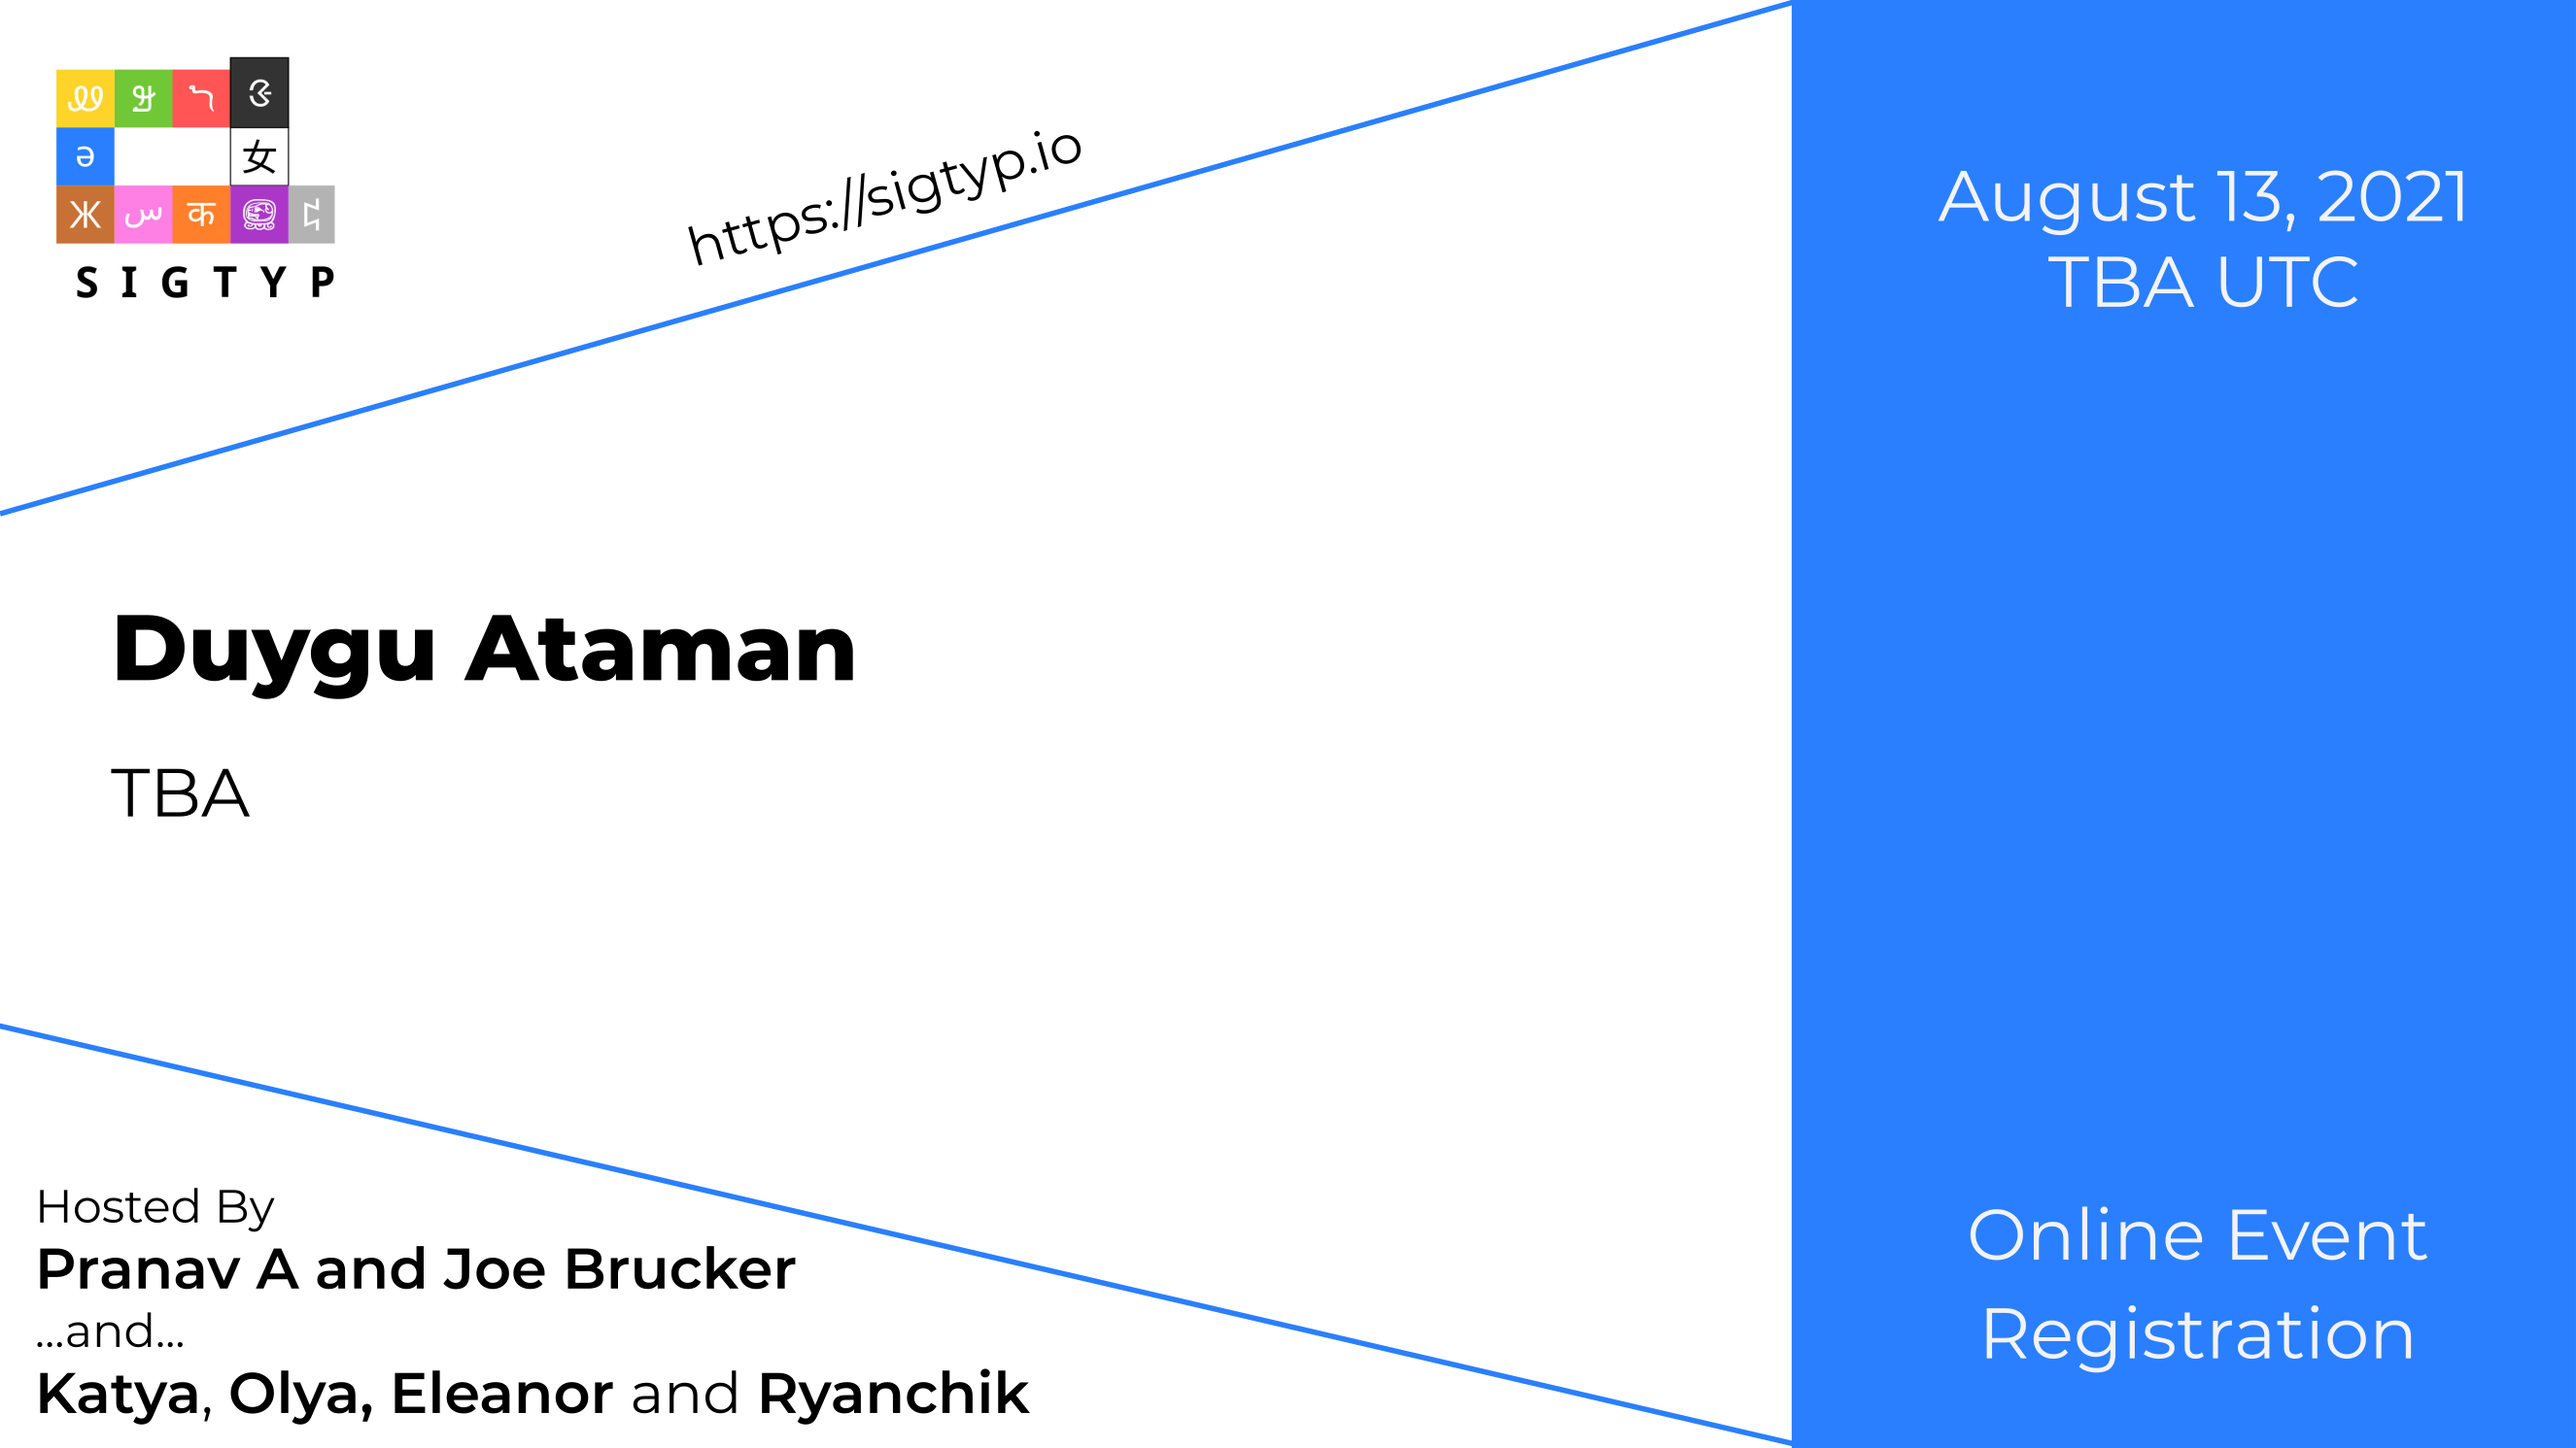
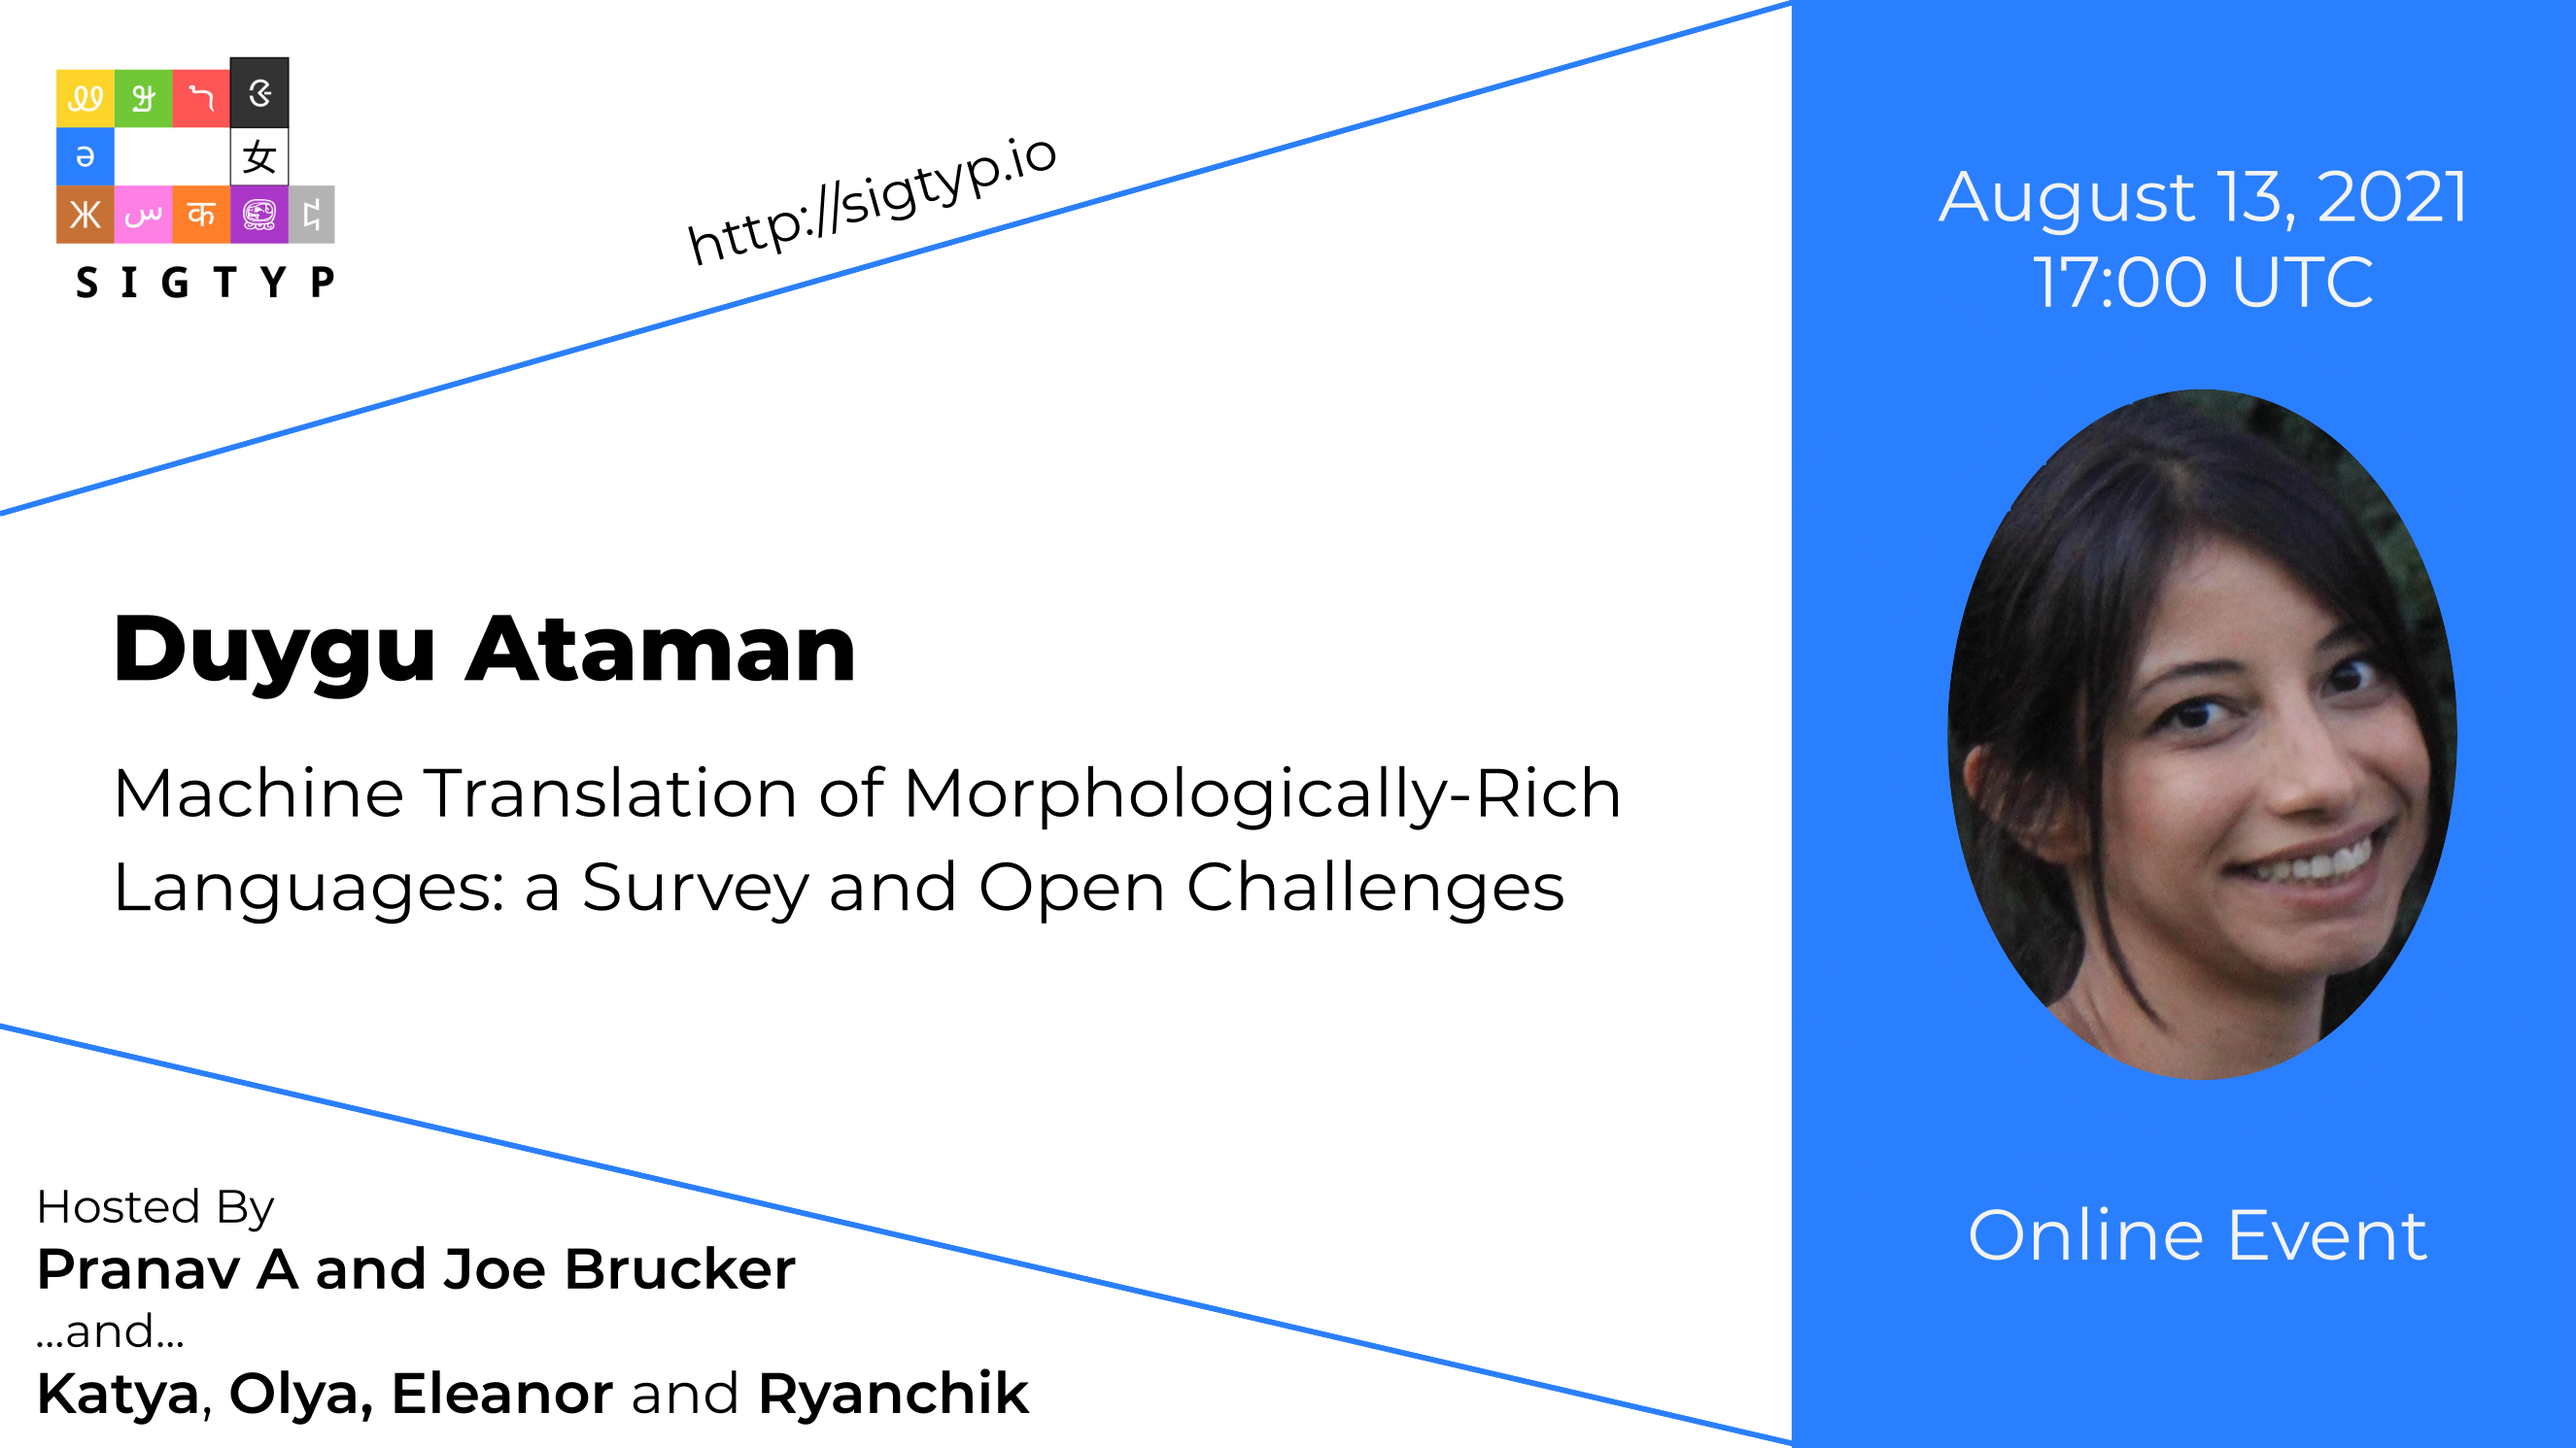
++duygu

diff --git a/lectures.html b/lectures.html
@@ -256,16 +256,16 @@ img {vertical-align: middle;}
   </div-->
 
 
-<div class="mySlides">
+<!--div class="mySlides">
     <div class="numbertext"></div>
-    <a href="https://TBA" class="image full"><img src="lectures/speakers/amit_moryossef.png" style="width:100%"></a>
-    <div class="text1"><a href="https://TBA">Including Signed Languages in Natural Language Processing</a></div>
-  </div>
+    <a href="https://scholar.google.co.il/citations?user=Aaj_RBEAAAAJ&hl=en"" class="image full"><img src="lectures/speakers/amit_moryossef.png" style="width:100%"></a>
+    <div class="text1"><a href="https://scholar.google.co.il/citations?user=Aaj_RBEAAAAJ&hl=en"">Including Signed Languages in Natural Language Processing</a></div>
+  </div-->
 
 <div class="mySlides">
     <div class="numbertext"></div>
-    <a href="https://scholar.google.co.il/citations?user=Aaj_RBEAAAAJ&hl=en" class="image full"><img src="lectures/speakers/duygu_ataman.png" style="width:100%"></a>
-    <div class="https://scholar.google.co.il/citations?user=Aaj_RBEAAAAJ&hl=en"><a href="https://TBA">TBA</a></div>
+    <a href="https://d-ataman.github.io/" class="image full"><img src="lectures/speakers/duygu_ataman.png" style="width:100%"></a>
+    <div class="https://d-ataman.github.io/"><a href="https://TBA">Machine Translation of Morphologically-Rich Languages: a Survey and Open Challenges</a></div>
   </div>
 
 <div class="mySlides">
@@ -531,7 +531,7 @@ Bio:<br/> Eleanor Chodroff is a Lecturer in Phonetics and Phonology at the Unive
       </div>
       <div id="lecture-moryossef" class="panel-collapse collapse">
         <div class="panel-body" style="align: center; text-align:center">
-<p align="left" style="color:red;font-size:16px"></p>
+<p align="left" style="color:red;font-size:16px">Amit Moryossef: Including Signed Languages in NLP</p>
 <p align="left">
 Signed languages are the primary means of communication for many deaf and hard-of-hearing individuals. Since signed languages exhibit all the fundamental linguistic properties of natural language, I believe that tools and theories of Natural Language Processing (NLP) are crucial to its modeling. However, existing research in Sign Language Processing (SLP) seldom attempts to explore and leverage the linguistic organization of signed languages.
 In this talk, I discuss the linguistic properties of signed languages, the current open questions and challenges in modeling them, and present my current research to mitigate them.</p>
@@ -544,14 +544,17 @@ In this talk, I discuss the linguistic properties of signed languages, the curre
 <div class="panel panel-default">
       <div class="panel-heading">
         <h4 class="panel-title">
-          <a data-toggle="collapse" data-parent="#accordion" href="#lecture-ataman">[13/08/2021] Duygu Ataman</a>
+          <a data-toggle="collapse" data-parent="#accordion" href="#lecture-ataman">[13/08/2021] Duygu Ataman: Machine Translation of Morphologically-Rich Languages: a Survey and Open Challenges</a>
         </h4>
       </div>
       <div id="lecture-ataman" class="panel-collapse collapse">
         <div class="panel-body" style="align: center; text-align:center">
-<p align="left" style="color:red;font-size:16px"></p>
+<p align="left" style="color:red;font-size:16px">Duygu Ataman: Machine Translation of Morphologically-Rich Languages: a Survey and Open Challenges</p>
 <p align="left">
-TBA
+Morphologically-rich languages challenge neural machine translation (NMT) models with extremely sparse vocabularies where atomic treatment of surface forms is unrealistic. This problem is typically addressed by either pre-processing words into subword units or performing translation directly at the level of characters. The former is based on word segmentation algorithms optimized using corpus-level statistics with no regard to the translation task. The latter approach has shown significant benefits for translating morphologically-rich languages, although practical applications are still limited due to increased requirements in terms of model capacity. In this talk, we present an overview of recent approaches to NMT developed for translating morphologically-rich languages and open challenges related to their future deployment.
+<br/>
+Bio:<br/> 
+Duygu Ataman holds a bachelor's and a master's degree in electrical engineering and computer science from Middle East Technical University, and KU Leuven, respectively. She completed her Ph.D. in computer science in 2019 at the University of Trento under the supervision of Marcello Federico. In her doctoral research she studied unsupervised learning of morphology, from the aspects of linguistics, cognitive science and statistics, and designed a purely statistical formulation of it within the Bayesian framework, which could be implemented in decoders of neural machine translation models in order to generate better translations in morphologically-rich languages. During her Ph.D. she was also a visiting student at the School of Informatics, University of Edinburgh advised by Dr. Alexandra Birch, and an applied scientist intern at Amazon Alexa Research. After recently completing her post-doctoral research and studies at the Institute of Computational Linguistics, University of Zürich she will soon join New York University's Courant Institute as an assistant professor and faculty fellow.</p>
 <p  align="center"><a href="TBA"  class="button small">Slides</a>&nbsp;&nbsp;<a href="TBA"  class="button small">BiliBili</a>&nbsp;&nbsp;<a href="https://sigtyp.inf.ethz.ch/channel/lecture-ataman"  class="button small">RocketChat</a>&nbsp;&nbsp;<a href="https://TBA"  class="button small">Website</a></p>
        </div>
       </div>

diff --git a/index.html b/index.html
@@ -223,8 +223,8 @@ img {vertical-align: middle;}
 					<h2 style="font-size:28px">Online Lecture Series</h2>
 				</header>
 <div class="container">
-				<a href="https://github.com/AmitMY" class="image centered"><img src="lectures/speakers/amit_moryossef.png" alt="SIGTYP2021" style="width:100%"></a><br/>
-					<p style="font-size:18px;text-align:left;">SIGTYP is starting a online lecture series. Our upcoming lecturer is  Amit Moryossef who will speak on <i>Including Signed Languages in NLP</i> The event will be held over Zoom on Aug 5th at 17:00 UTC.</p>
+				<a href="https://github.com/AmitMY" class="image centered"><img src="lectures/speakers/duygu_ataman.png" alt="SIGTYP2021" style="width:100%"></a><br/>
+					<p style="font-size:18px;text-align:left;">SIGTYP is starting a online lecture series. Our upcoming lecturer is  Duygu Ataman who will speak on <i>Machine Translation of Morphologically-Rich Languages: a Survey and Open Challenges</i> The event will be held over Zoom on Aug 13th at 17:00 UTC.</p>
 </div>				
 				<header>
 					<h2 style="font-size:28px">Resources</h2>
